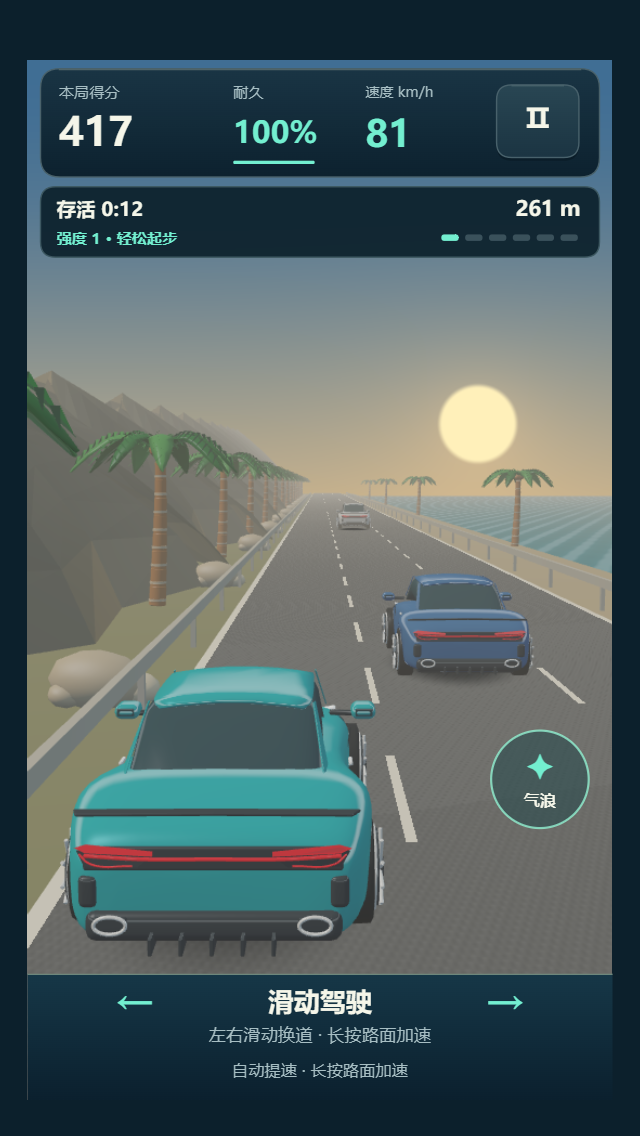
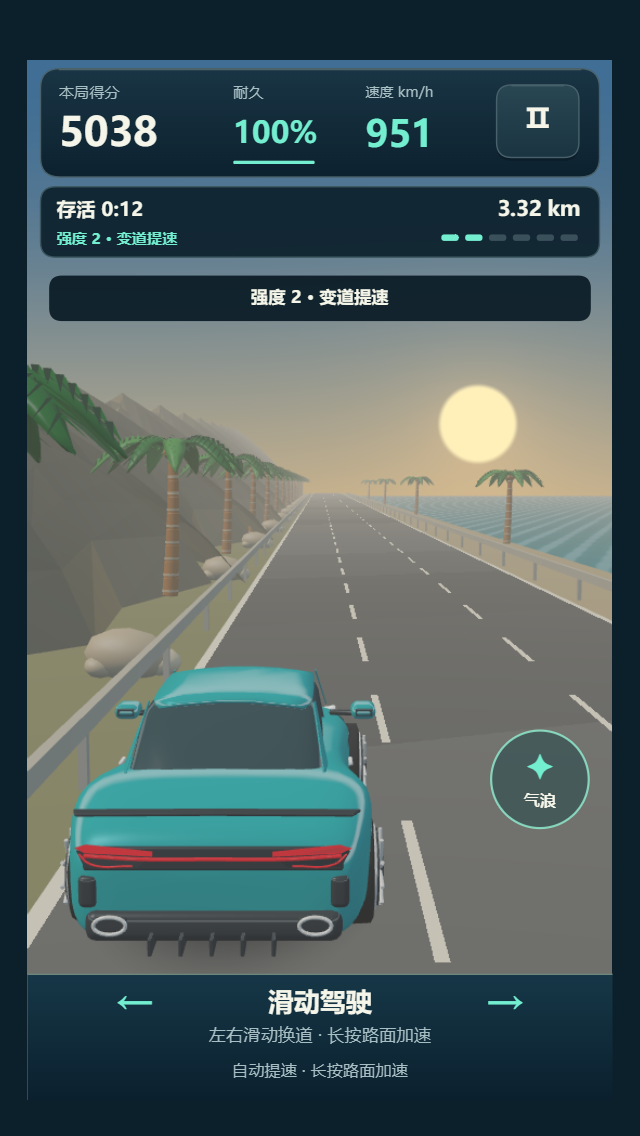
Remove fixed speed cap and preserve custom tier tuning

diff --git a/公路之王/src/game-core.js b/公路之王/src/game-core.js
@@ -116,7 +116,7 @@ class RoadKingCore {
       if (this.signalTimer > 6) { this.signalDirection = 0; this.signalTimer = 0; }
     }
     const cruise = this.difficulty.cruiseSpeed;
-    const desired = Math.min(240, cruise + (this.throttle ? 22 : 0));
+    const desired = cruise + (this.throttle ? 22 : 0);
     this.speed = this.collisionStopped ? 0 : moveTowards(this.speed, desired, dt * (this.throttle ? 45 : 24));
     this.maxSpeed = Math.max(this.maxSpeed, this.speed);
     this.distance += this.speed / 3.6 * dt;
@@ -223,7 +223,7 @@ class RoadKingCore {
   }
 
   _pick(items) { return items[Math.min(items.length - 1, Math.floor(clamp(this.random(), 0, 1) * items.length))]; }
-  _safeGap() { return 22 + Math.min(240, this.difficulty.cruiseSpeed + 22) * 0.1; }
+  _safeGap() { return 22 + (this.difficulty.cruiseSpeed + 22) * 0.1; }
 
   _trafficLaneClear(car, nextX, seconds) {
     // Reserve the entire swept width, including the middle lane on a two-lane
@@ -247,7 +247,7 @@ class RoadKingCore {
     const double = this.random() < this.difficulty.doubleChance && active.length+2<=this.difficulty.maxActiveObstacles;
     const barrier = this.random() < this.difficulty.barrierChance;
     const waveSpeed = barrier ? 0 : 22 + Math.min(12, this.elapsed * 0.06);
-    const approachSpeed = Math.min(240, this.difficulty.cruiseSpeed + 22);
+    const approachSpeed = this.difficulty.cruiseSpeed + 22;
     const closing = (approachSpeed - waveSpeed) / 3.6 * 0.75;
     const farthest = active.reduce((z, car) => Math.max(z, car.z), -Infinity);
     const z = Math.max(55, closing * this.difficulty.reactionTime, farthest + this._safeGap());
@@ -397,7 +397,7 @@ function validateStages(config){
     const invalid=field=>{throw new Error('difficulty-config: 强度 '+(index+1)+' 的 '+field+' 配置无效');};
     if(!stage||typeof stage.label!=='string'||!stage.label.trim())invalid('label');
     for(const key of ['durationSeconds','spawnStart','spawnEnd','reactionSeconds'])if(!Number.isFinite(stage[key])||stage[key]<=0)invalid(key);
-    for(const key of ['speedStart','speedEnd'])if(!Number.isFinite(stage[key])||stage[key]<=0||stage[key]>240)invalid(key);
+    for(const key of ['speedStart','speedEnd'])if(!Number.isFinite(stage[key])||stage[key]<=0)invalid(key);
     for(const key of ['mergeChance','doubleChance','barrierChance'])if(!Number.isFinite(stage[key])||stage[key]<0||stage[key]>1)invalid(key);
     if(!Number.isInteger(stage.maxActiveObstacles)||stage.maxActiveObstacles<2)invalid('maxActiveObstacles');
     return {...stage};

diff --git a/公路之王/src/difficulty-config.js b/公路之王/src/difficulty-config.js
@@ -2,16 +2,25 @@
 // 修改这里后重新编译。时间单位秒，速度 km/h，概率范围 0–1。
 // 前三档 durationSeconds 控制进入下一档的时间。
 // 最后一档无限持续，durationSeconds 控制速度/密度趋近终值的快慢。
+// `label` | 界面显示的强度名称 |
+// | `durationSeconds` | 本档持续秒数。前三档结束后进入下一档；第四档无限持续，该值控制趋近最终速度和密度的时间尺度 |
+// | `speedStart` / `speedEnd` | 本档巡航起始与最终速度，km/h，范围大于 0，没有固定最大速度限制 |
+// | `spawnStart` / `spawnEnd` | 本档起始与最终障碍生成间隔，秒，数值越小越密集；前方拥挤时仍会推迟生成 |
+// | `reactionSeconds` | 生成障碍时预留的反应秒数，大于 0 |
+// | `mergeChance` | 车辆变道概率，0–1；0 关闭变道，1 为所有符合安全条件的波次开启变道 |
+// | `doubleChance` | 一组生成双障碍的概率，0–1 |
+// | `barrierChance` | 一组生成固定路障的概率，0–1 |
+// | `maxActiveObstacles` | 同时存在的前方有效障碍上限，整数，至少 2
 module.exports={
   "stages": [
     {
       "label": "轻松起步",
-      "durationSeconds": 30,
-      "speedStart": 76,
-      "speedEnd": 88,
+      "durationSeconds": 10,
+      "speedStart": 1000,
+      "speedEnd": 1000,
       "spawnStart": 4.6,
       "spawnEnd": 4.1,
-      "reactionSeconds": 5,
+      "reactionSeconds": 1,
       "mergeChance": 0,
       "doubleChance": 0,
       "barrierChance": 0,

diff --git a/tests/difficulty-config.test.js b/tests/difficulty-config.test.js
@@ -1,4 +1,5 @@
 const test=require('node:test'),assert=require('node:assert/strict');
+require('./fixtures/default-difficulty');
 const Core=require('../公路之王/src/game-core'),defaults=require('../公路之王/src/difficulty-config');
 const config=()=>JSON.parse(JSON.stringify(defaults));
 test('custom durations advance at cumulative boundaries and final stage remains endless',()=>{
@@ -20,4 +21,10 @@ test('invalid stage settings fail with the field and stage instead of breaking g
  for(const [field,value] of [['durationSeconds',0],['mergeChance',1.1],['speedEnd',NaN],['spawnStart',-1],['maxActiveObstacles',1]]){
   const c=config();c.stages[1][field]=value;assert.throws(()=>new Core({difficultyConfig:c}),new RegExp('强度 2.*'+field));
  }
+});
+test('configured speeds and throttle are not clamped at 240 km/h',()=>{
+ const c=config();Object.assign(c.stages[0],{speedStart:400,speedEnd:400});
+ const g=new Core({difficultyConfig:c}).start();g._nextTraffic=Infinity;assert.equal(g.speed,400);
+ g.setThrottle(true);g.update(1);assert.equal(g.speed,422);
+ assert.equal(g._safeGap(),64.2);g.setThrottle(false);g.update(1);assert.equal(g.speed,400);
 });

diff --git a/tests/fixtures/default-difficulty.js b/tests/fixtures/default-difficulty.js
@@ -1,0 +1,3 @@
+// Pin the original tuning for regression tests, independent of local user edits.
+const config=require('../../公路之王/src/difficulty-config');
+Object.assign(config.stages[0],{durationSeconds:30,speedStart:76,speedEnd:88});

diff --git a/tests/game-core.test.js b/tests/game-core.test.js
@@ -1,4 +1,5 @@
 'use strict';
+require('./fixtures/default-difficulty');
 const test = require('node:test');
 const assert = require('node:assert/strict');
 const RoadKingCore = require('../公路之王/src/game-core.js');

diff --git a/tests/game-app.test.js b/tests/game-app.test.js
@@ -1,4 +1,5 @@
 const test=require('node:test');
+require('./fixtures/default-difficulty');
 const assert=require('node:assert/strict');
 const App=require('../公路之王/src/game-app');
 function fixture(){

diff --git a/tests/tier-music.test.js b/tests/tier-music.test.js
@@ -1,4 +1,5 @@
 'use strict';
+require('./fixtures/default-difficulty');
 const test=require('node:test'),assert=require('node:assert/strict');
 const Core=require('../公路之王/src/game-core');
 

diff --git a/tools/package_douyin_demo.py b/tools/package_douyin_demo.py
@@ -77,7 +77,7 @@ report = {
     'files':names,
     'zipIntegrity':'passed',
     'platform':'Douyin native WebGL 3D scene with Blender geometry and Canvas 2D HUD',
-    'verification':'46 Node tests; configurable tier durations and hazard parameters, four difficulty tiers, persistent WebAudio engine playback and 15-second PCM continuity checks, traffic merge clearance, collision stop/recovery and WebGL rendering. See research/blender-preview and README for scope.',
+    'verification':'47 Node tests; configurable tier durations and hazard parameters, four difficulty tiers, persistent WebAudio engine playback and 15-second PCM continuity checks, traffic merge clearance, collision stop/recovery and WebGL rendering. See research/blender-preview and README for scope.',
     'notVerified':['Blender art version in Douyin IDE simulator','Android/iOS phone','live upload and publication','phone performance','audio listening'],
 }
 (target / 'delivery-manifest.json').write_text(json.dumps(report,ensure_ascii=False,indent=2),encoding='utf-8')

diff --git a/公路之王/README.md b/公路之王/README.md
@@ -43,7 +43,7 @@ node preview/serve.js 4179
 
 访问 [http://127.0.0.1:4179/](http://127.0.0.1:4179/)。若端口已有服务，直接访问并刷新。浏览器与抖音环境加载同一份 `game-core.js` 和 `game-app.js`。浏览器预览工具不需要放入抖音发布包。
 
-规则与平台测试 **46/46 通过**。覆盖变道防穿越、撞停换道恢复、引擎音源不重复启动和加载中静音。六个随机种子的六分钟驾驶逐帧检查车流无重叠。`tools/verify_engine_preview.cjs` 验证实际 WebAudio 播放、加速变化、撞停怠速及暂停静音，并渲染 15 秒连续音频检查多个循环接缝无静音断点。报告输出至 `research/blender-preview/`。
+规则与平台测试 **47/47 通过**。覆盖变道防穿越、撞停换道恢复、引擎音源不重复启动和加载中静音。六个随机种子的六分钟驾驶逐帧检查车流无重叠。`tools/verify_engine_preview.cjs` 验证实际 WebAudio 播放、加速变化、撞停怠速及暂停静音，并渲染 15 秒连续音频检查多个循环接缝无静音断点。报告输出至 `research/blender-preview/`。
 
 本次验证范围为 Node 规则/平台测试与共享源码浏览器预览（390×844、320×568）。本次无尽修改尚未在抖音模拟器或手机真机重验，也未上传、审核或发布。`research/douyin-preview/` 中的记录与旧版 PDF 是原三关版本的历史资料。
 
@@ -60,7 +60,7 @@ node preview/serve.js 4179
 
 长按路面 0.3 秒加速，松手恢复巡航；滑动换道会结束长按。碰撞、暂停和后台清除长按状态。
 
-四档强度每 30 秒递进：1 稀疏直行车流（76–88 km/h）；2 加入预告变线车辆（112–145 km/h）；3 增加双车障碍与路障（162–198 km/h）；4 密集极速车流（218 km/h 起，趋近 228 km/h）。长按额外加速，上限 240 km/h。
+四档强度每 30 秒递进：1 稀疏直行车流（76–88 km/h）；2 加入预告变线车辆（112–145 km/h）；3 增加双车障碍与路障（162–198 km/h）；4 密集极速车流（218 km/h 起，趋近 228 km/h）。长按额外加速，不设固定速度上限。
 
 撞停恢复按实际前方占位判断，换道途中撞车可在完成换道后起步，后方排队车辆不会阻止恢复；前方路障仍需换道避让。
 

diff --git a/docs/difficulty-config.md b/docs/difficulty-config.md
@@ -6,7 +6,7 @@
 | --- | --- |
 | `label` | 界面显示的强度名称 |
 | `durationSeconds` | 本档持续秒数。前三档结束后进入下一档；第四档无限持续，该值控制趋近最终速度和密度的时间尺度 |
-| `speedStart` / `speedEnd` | 本档巡航起始与最终速度，km/h，范围大于 0 且不超过 240 |
+| `speedStart` / `speedEnd` | 本档巡航起始与最终速度，km/h，范围大于 0，没有固定最大速度限制 |
 | `spawnStart` / `spawnEnd` | 本档起始与最终障碍生成间隔，秒，数值越小越密集；前方拥挤时仍会推迟生成 |
 | `reactionSeconds` | 生成障碍时预留的反应秒数，大于 0 |
 | `mergeChance` | 车辆变道概率，0–1；0 关闭变道，1 为所有符合安全条件的波次开启变道 |
@@ -16,6 +16,6 @@
 
 例如前三档时间分别改为 `20`、`40`、`60`，则强度 2 在第 20 秒开始，强度 3 在第 60 秒开始，强度 4 在第 120 秒开始。修改某档的概率和速度只影响该档。
 
-前三档的速度和生成间隔按时间线性变化；第四档平滑趋近终值，不会再切换强度。长按额外加速仍为 22 km/h，总速度上限 240 km/h。配置概率受车辆间距、预告和安全出口规则约束，保证不会为了达到概率而强制穿车。
+前三档的速度和生成间隔按时间线性变化；第四档平滑趋近终值，不会再切换强度。长按额外加速仍为 22 km/h，不再设固定最大速度上限。配置概率受车辆间距、预告和安全出口规则约束，保证不会为了达到概率而强制穿车。
 
 错误的字段会在启动时明确报出所在强度和字段名。各档配置在创建游戏时读取，修改后重新编译生效。
